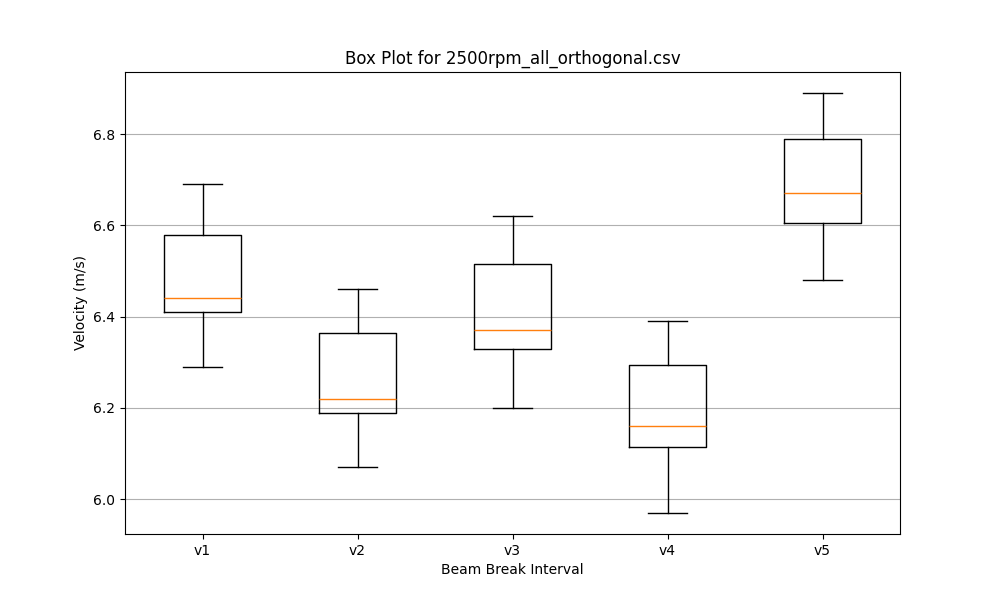
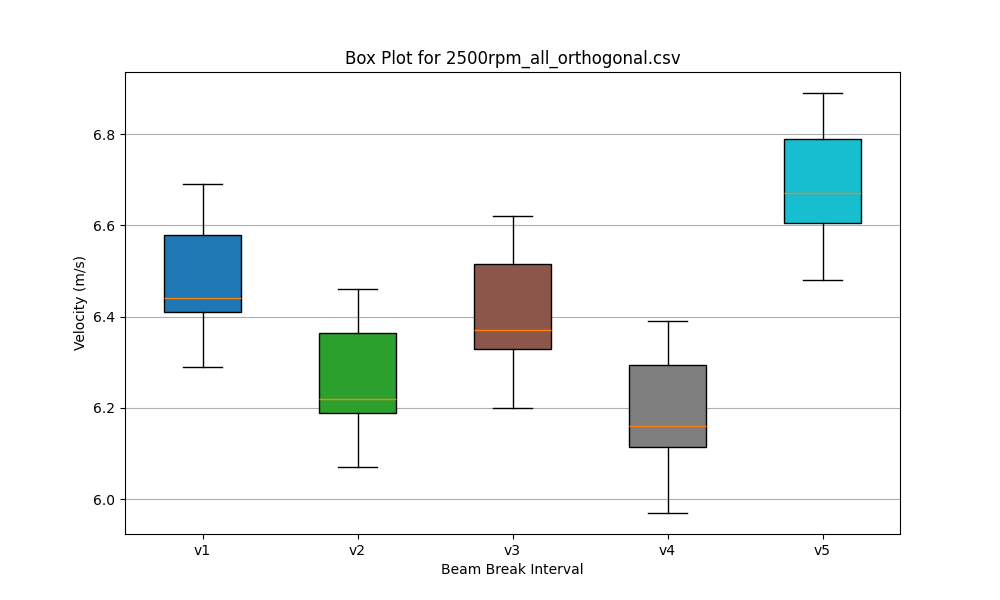
added more data processing, will hopefully get better with more data

diff --git a/post-processing/process.py b/post-processing/process.py
@@ -26,6 +26,15 @@ if __name__ == "__main__":
 
     os.makedirs(os.path.join(SCRIPT_DIR, "plots"), exist_ok=True)
     
+    # Define a consistent color map for all plots
+    # We need to know the number of intervals from the first file to set the color map size
+    if csv_files:
+        num_intervals = read_csv(csv_files[0]).shape[1]
+        colors = plt.cm.get_cmap('tab10', num_intervals)
+    else:
+        num_intervals = 0
+        colors = None
+
     for csv_file in csv_files:
         data = read_csv(csv_file)
         # print(data)
@@ -34,7 +43,7 @@ if __name__ == "__main__":
         # Plot the velocity data, plotting a different line for each column
         plt.figure(figsize=(10, 6))
         for i in range(data.shape[1]):
-            plt.plot(data[:, i], label=f"Column {i+1}")
+            plt.plot(data[:, i], label=f"Column {i+1}", color=colors(i))
         plt.title(f"Velocity vs Time for {os.path.basename(csv_file)}")
         plt.xlabel('Iteration')
         plt.ylabel('Velocity (m/s)')
@@ -54,10 +63,16 @@ if __name__ == "__main__":
 
          # --- Box plot ---
         plt.figure(figsize=(10, 6))
-        plt.boxplot(
+        box = plt.boxplot(
             [data[:, i] for i in range(data.shape[1])],
-            labels=[f"v{i+1}" for i in range(data.shape[1])]
+            labels=[f"v{i+1}" for i in range(data.shape[1])],
+            patch_artist=True  # Enable filling boxes with color
         )
+        
+        # Set colors for each box
+        for patch, i in zip(box['boxes'], range(num_intervals)):
+            patch.set_facecolor(colors(i))
+
         plt.title(f"Box Plot for {os.path.basename(csv_file)}")
         plt.xlabel('Beam Break Interval')
         plt.ylabel('Velocity (m/s)')
@@ -65,4 +80,61 @@ if __name__ == "__main__":
         plt.savefig(os.path.join(SCRIPT_DIR, "plots", os.path.basename(csv_file).replace('.csv', '_boxplot.png')))
         plt.close()
         print(f"Box plot saved for {csv_file}")
+
+    # --- Aggregate Scatter Plot ---
+    # This plot will show the average velocity for each interval across all CSV files,
+    # plotted against the RPM extracted from the filename.
+
+    # Dictionary to store data: {interval_index: [(rpm, avg_velocity), ...]}
+    aggregated_data = {} 
+
+    for csv_file in csv_files:
+        # Extract RPM from filename (assuming format like '..._XXXXrpm.csv')
+        try:
+            basename = os.path.basename(csv_file)
+            rpm_str = basename.split('rpm')[0].split('_')[-1]
+            rpm = int(rpm_str)
+        except (IndexError, ValueError):
+            print(f"Warning: Could not parse RPM from filename '{os.path.basename(csv_file)}'. Skipping for aggregate plot.")
+            continue
+
+        data = read_csv(csv_file)
+        
+        # Calculate average velocity for each column (interval)
+        avg_velocities = np.mean(data, axis=0)
+
+        for i, avg_v in enumerate(avg_velocities):
+            if i not in aggregated_data:
+                aggregated_data[i] = []
+            aggregated_data[i].append((rpm, avg_v))
+
+    # Create the scatter plot
+    plt.figure(figsize=(12, 8))
     
+    # The 'colors' colormap is already defined above and will be used here
+
+    for interval_idx, points in sorted(aggregated_data.items()):
+        # Unzip the points into separate lists for rpm and velocity
+        rpms, velocities = zip(*points)
+        
+        # Plot the scatter points
+        plt.scatter(rpms, velocities, label=f'v{interval_idx+1} Data', color=colors(interval_idx))
+        
+        # Calculate and plot the trendline (1st degree polynomial fit)
+        if len(rpms) > 1: # Need at least 2 points for a line
+            trend_coeffs = np.polyfit(rpms, velocities, 1)
+            trend_line = np.poly1d(trend_coeffs)
+            
+            # Generate x-values for the trendline to span the range of RPMs
+            rpm_range = np.linspace(min(rpms), max(rpms), 100)
+            plt.plot(rpm_range, trend_line(rpm_range), linestyle='--', color=colors(interval_idx), label=f'v{interval_idx+1} Trend')
+
+    plt.title('Average Interval Velocity vs. RPM')
+    plt.xlabel('RPM')
+    plt.ylabel('Average Velocity (m/s)')
+    plt.grid(True)
+    plt.legend()
+    plt.savefig(os.path.join(SCRIPT_DIR, "plots", 'aggregate_velocity_vs_rpm.png'))
+    plt.close()
+    print("Aggregate scatter plot saved as 'aggregate_velocity_vs_rpm.png'")
+
